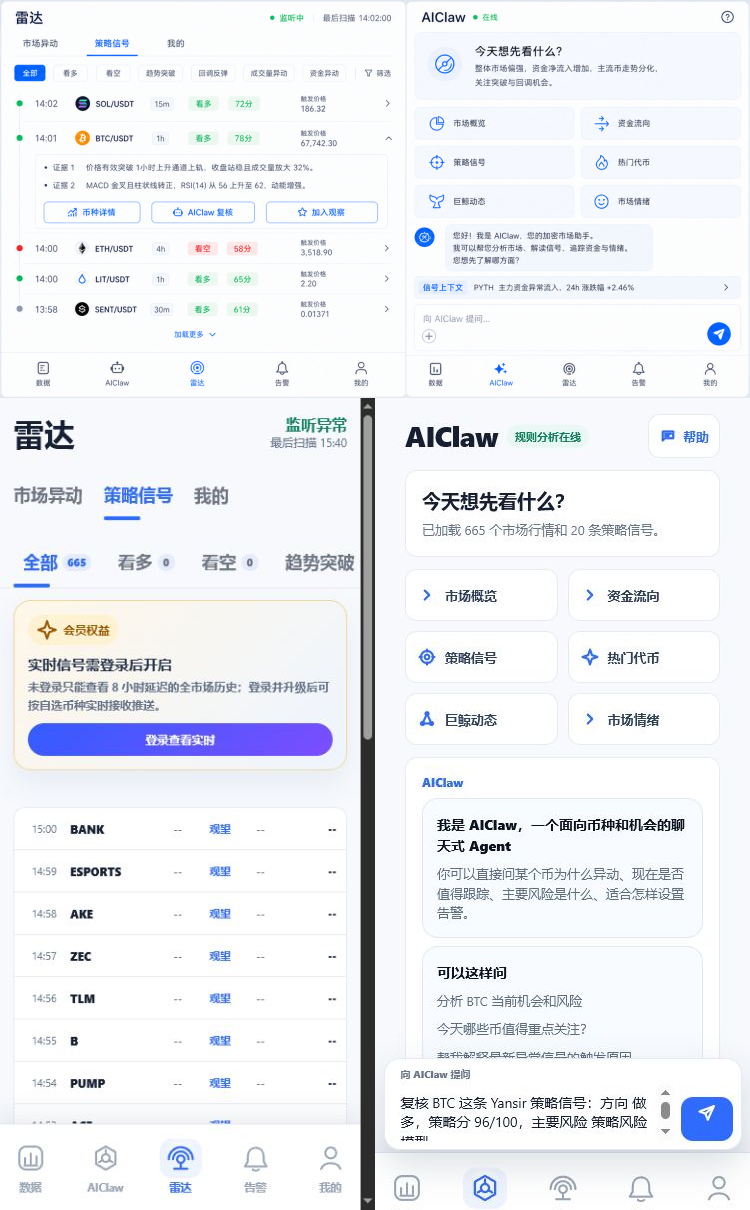
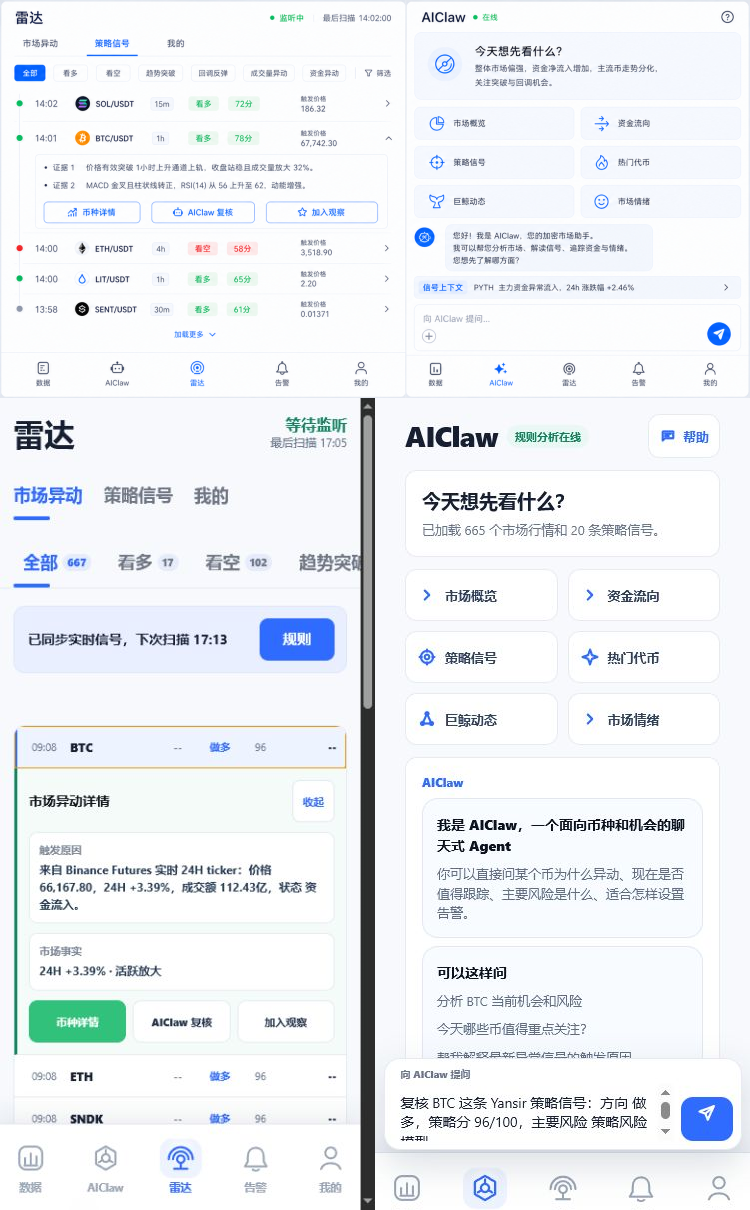
docs(web): record authenticated radar QA

diff --git a/design-qa.md b/design-qa.md
@@ -8,17 +8,18 @@
 
 - Full comparison: `docs/superpowers/specs/assets/ai-claw-radar-unified-qa.png`
 - Focused signal-context comparison: `docs/superpowers/specs/assets/ai-claw-context-qa.png`
+- Authenticated expanded Radar: `docs/superpowers/specs/assets/radar-auth-expanded-qa.png`
 
 **Viewport and state**
 
 - Browser outer viewport: `390 × 844`; rendered page client width: `375px`.
 - AIClaw route: `http://127.0.0.1:4175/yansir/?view=claw`, authenticated demo-admin state backed by the local API on port 3101.
-- Radar route: `http://127.0.0.1:4175/yansir/?view=radar`, authenticated strategy source with expandable BTC signal evidence.
+- Radar route: `http://127.0.0.1:4175/yansir/?view=radar`, authenticated market source showing the `已同步实时信号` status strip and expanded BTC 96 evidence.
 - A separate signed-out run verified the public AIClaw shell, in-page login gate, disabled protected actions, and API-error/fallback feedback.
 
 **Full-view comparison evidence**
 
-The approved source, authenticated Radar, and authenticated AIClaw captures were inspected together in `docs/superpowers/specs/assets/ai-claw-radar-unified-qa.png`. The implementation preserves the same mobile hierarchy: title/status header, source or action controls, single content column, compact information density, fixed bottom navigation, and Yansir blue active states. `docs/superpowers/specs/assets/ai-claw-context-qa.png` separately verifies the focused Radar-to-AIClaw context state.
+The approved source, authenticated expanded Radar, and authenticated AIClaw captures were inspected together in `docs/superpowers/specs/assets/ai-claw-radar-unified-qa.png`. The Radar panel in that comparison is sourced from `docs/superpowers/specs/assets/radar-auth-expanded-qa.png` and visibly includes the authenticated sync strip, BTC 96 expanded evidence, and all three actions. The implementation preserves the same mobile hierarchy: title/status header, source or action controls, single content column, compact information density, fixed bottom navigation, and Yansir blue active states. `docs/superpowers/specs/assets/ai-claw-context-qa.png` separately verifies the focused Radar-to-AIClaw context state.
 
 **Focused region comparison evidence**
 
@@ -38,7 +39,7 @@ No actionable P0/P1/P2 findings remain.
 - Fonts and typography: heading/body hierarchy and compact label weights are coherent with the approved target; no broken wrapping or truncation was observed.
 - Spacing and layout rhythm: mobile gutters, two-column action proportions, 12px primary radii, compact Radar rows, fixed composer, and bottom-nav spacing preserve the target structure.
 - Colors and visual tokens: Yansir cobalt is used for active/navigation states, green for monitoring/opportunity, red for risk, and gray for neutral/disabled states.
-- Image quality and asset fidelity: no target product imagery is replaced by placeholder imagery; visible UI icons use the existing project icon system. Dynamic coin assets differ because the local capture uses fallback data.
+- Image quality and asset fidelity: no target product imagery is replaced by placeholder imagery; visible UI icons use the existing project icon system. Dynamic coin assets differ because the authenticated capture uses current local runtime data rather than the static reference fixtures.
 - Copy and content: app-specific titles, six AIClaw actions, Radar tabs/categories, three signal actions, and bottom-nav labels match the approved terminology. Signed-out explanatory copy is intentional.
 
 **Primary interactions tested**
@@ -64,7 +65,7 @@ No browser console errors were observed.
 1. Initial pass: direct guest navigation to `?view=claw` redirected to account, and the bottom navigation still displayed legacy `ValueClaw` / `信号` labels. These were P1 because they hid the redesigned shell and contradicted approved terminology.
 2. Fixes: made the AIClaw shell publicly routable while retaining the component-level login gate and disabled protected actions; changed bottom-nav labels to `AIClaw` / `雷达`; added exact entitlement and routing assertions.
 3. Post-fix signed-out pass: recaptured AIClaw and Radar at the same viewport, verified the public login gate, protected disabled controls, error/fallback state, overflow, and console state.
-4. Authenticated pass: started the local API, signed in with the documented demo administrator, exercised all six quick actions and composer send, transferred and cleared BTC Radar context, verified Radar evidence/actions and the zero-count empty state, and captured portable full/focused comparison evidence. No actionable P0/P1/P2 mismatch remained.
+4. Authenticated pass: started the local API, signed in with the documented demo administrator, exercised all six quick actions and composer send, transferred and cleared BTC Radar context, verified the authenticated sync strip, expanded BTC 96 evidence with all three actions, and the zero-count empty state, then captured portable full/focused comparison evidence. No actionable P0/P1/P2 mismatch remained.
 
 **Implementation checklist**
 